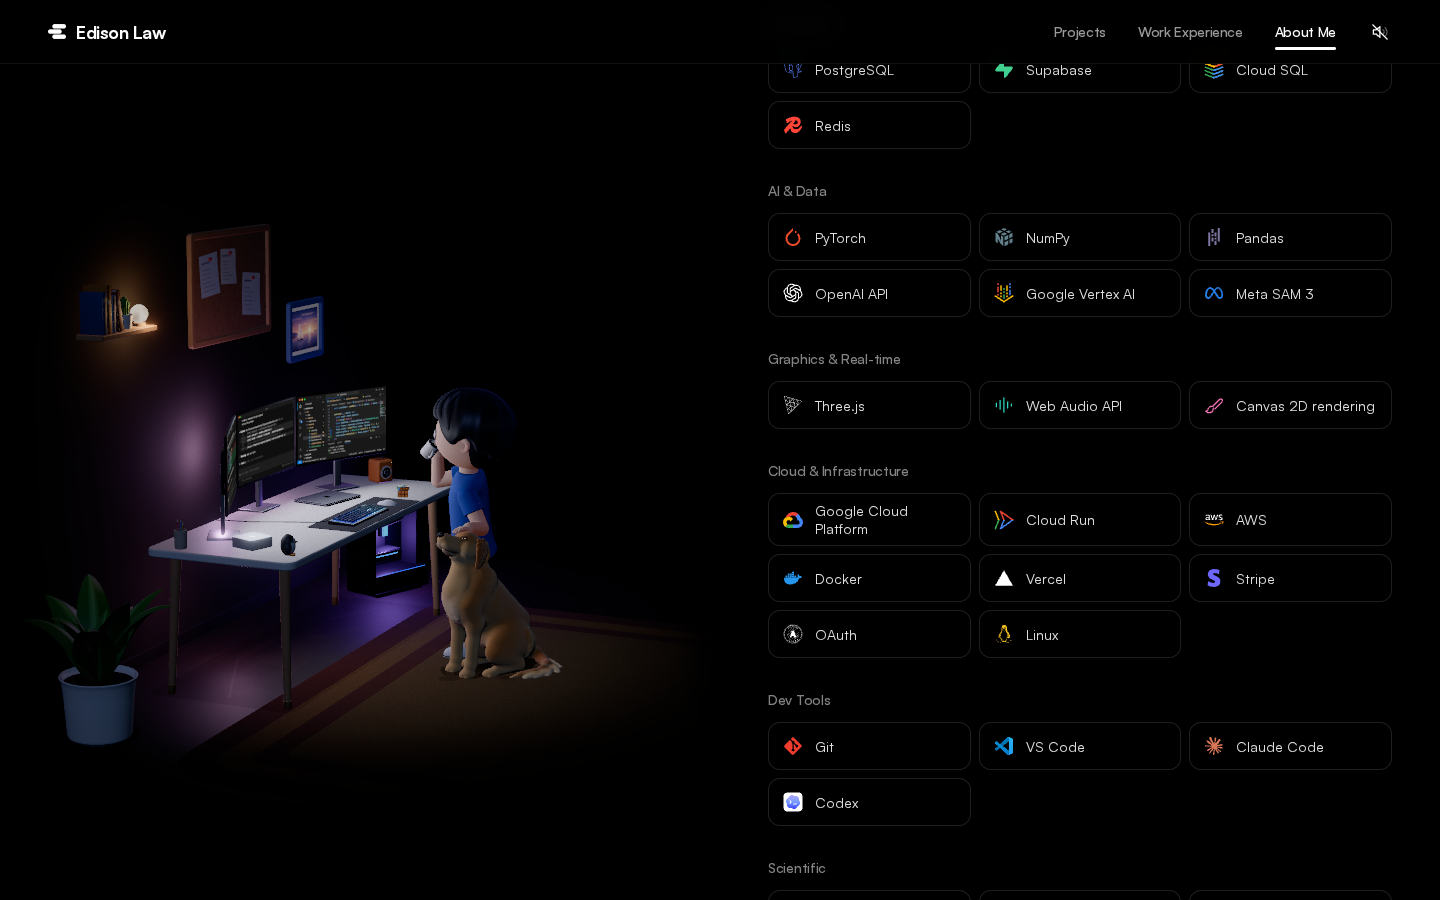
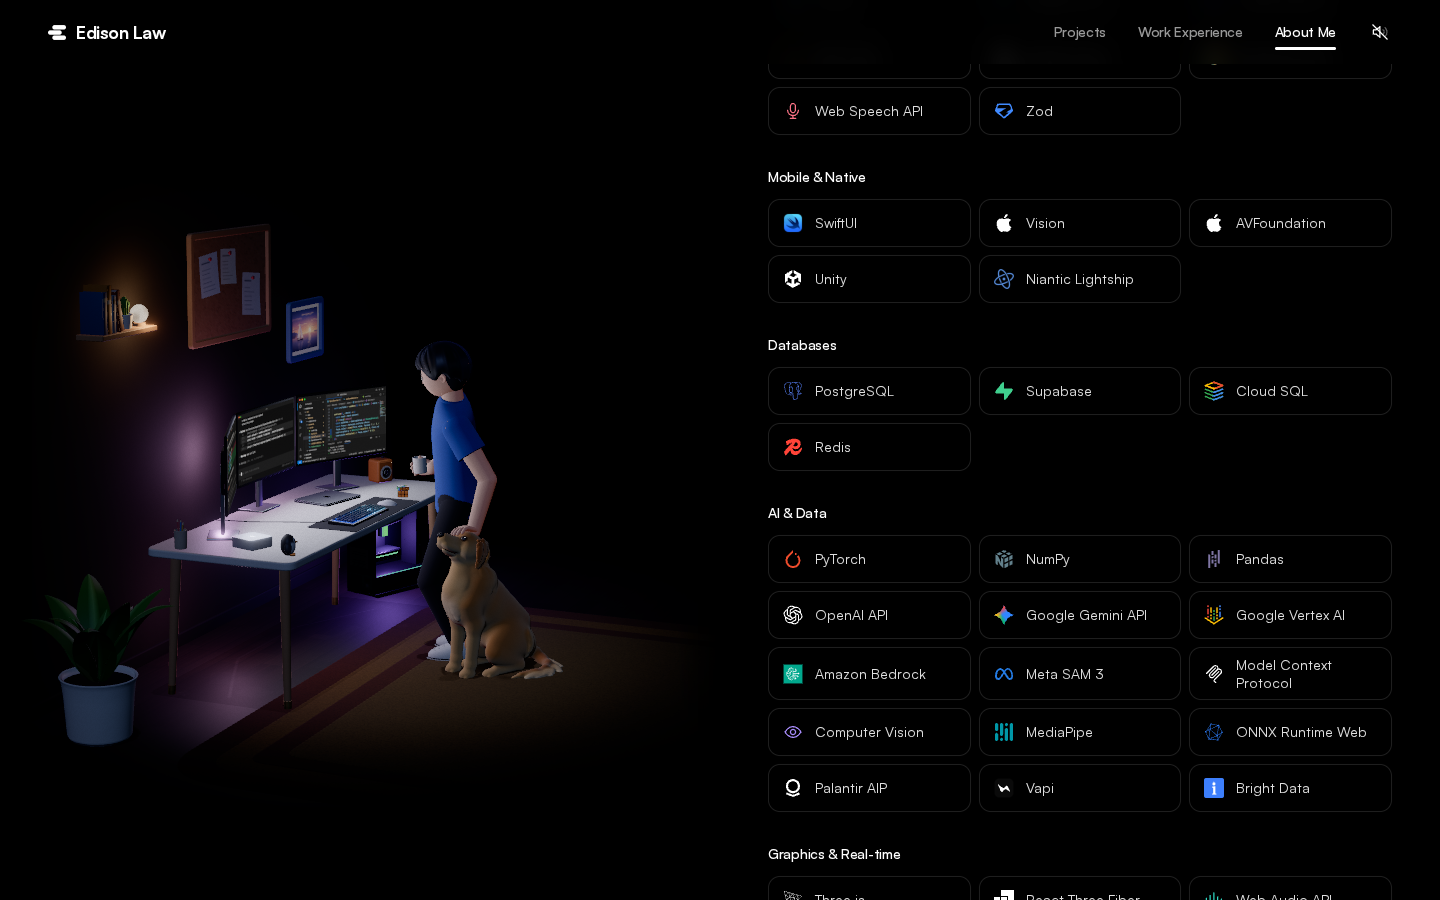
Add the skills the newer projects use to the skills section
Every project's stack is now covered. New entries: Tailwind CSS,
Framer Motion, Extensions API, Web Speech API, Zod, SwiftUI, Vision,
AVFoundation, Unity, Niantic Lightship, Google Gemini API, Amazon
Bedrock, Model Context Protocol, Computer Vision, MediaPipe, ONNX
Runtime Web, Palantir AIP, Vapi, Bright Data, React Three Fiber, SVG,
Konva, FFmpeg, Leaflet, OpenStreetMap and Vitest. A new Mobile & Native
group and a small Maps group keep them organised.

Claude-Session: https://claude.ai/code/session_017zh5xLgF4o9xYgyqBzj9X5

diff --git a/src/content/about.ts b/src/content/about.ts
@@ -41,19 +41,58 @@ export const skills: SkillGroup[] = [
   },
   {
     category: 'Web & Backend',
-    items: ['React', 'Next.js', 'React Native', 'Node.js', 'FastAPI', 'Flask', 'Flutter', 'REST APIs', 'WebSockets'],
+    items: [
+      'React',
+      'Next.js',
+      'React Native',
+      'Node.js',
+      'FastAPI',
+      'Flask',
+      'Flutter',
+      'Tailwind CSS',
+      'Framer Motion',
+      'REST APIs',
+      'WebSockets',
+      'Extensions API',
+      'Web Speech API',
+      'Zod',
+    ],
+  },
+  {
+    category: 'Mobile & Native',
+    items: ['SwiftUI', 'Vision', 'AVFoundation', 'Unity', 'Niantic Lightship'],
   },
   { category: 'Databases', items: ['PostgreSQL', 'Supabase', 'Cloud SQL', 'Redis'] },
   {
     category: 'AI & Data',
-    items: ['PyTorch', 'NumPy', 'Pandas', 'OpenAI API', 'Google Vertex AI', 'Meta SAM 3'],
+    items: [
+      'PyTorch',
+      'NumPy',
+      'Pandas',
+      'OpenAI API',
+      'Google Gemini API',
+      'Google Vertex AI',
+      'Amazon Bedrock',
+      'Meta SAM 3',
+      'Model Context Protocol',
+      'Computer Vision',
+      'MediaPipe',
+      'ONNX Runtime Web',
+      'Palantir AIP',
+      'Vapi',
+      'Bright Data',
+    ],
   },
-  { category: 'Graphics & Real-time', items: ['Three.js', 'Web Audio API', 'Canvas 2D rendering'] },
+  {
+    category: 'Graphics & Real-time',
+    items: ['Three.js', 'React Three Fiber', 'Web Audio API', 'Canvas 2D rendering', 'SVG', 'Konva', 'FFmpeg'],
+  },
+  { category: 'Maps', items: ['Leaflet', 'OpenStreetMap'] },
   {
     category: 'Cloud & Infrastructure',
     items: ['Google Cloud Platform', 'Cloud Run', 'AWS', 'Docker', 'Vercel', 'Stripe', 'OAuth', 'Linux'],
   },
-  { category: 'Dev Tools', items: ['Git', 'VS Code', 'Claude Code', 'Codex'] },
+  { category: 'Dev Tools', items: ['Git', 'VS Code', 'Claude Code', 'Codex', 'Vitest'] },
   { category: 'Scientific', items: ['MDAnalysis', 'WESTPA', 'Raspberry Pi'] },
 ];
 
